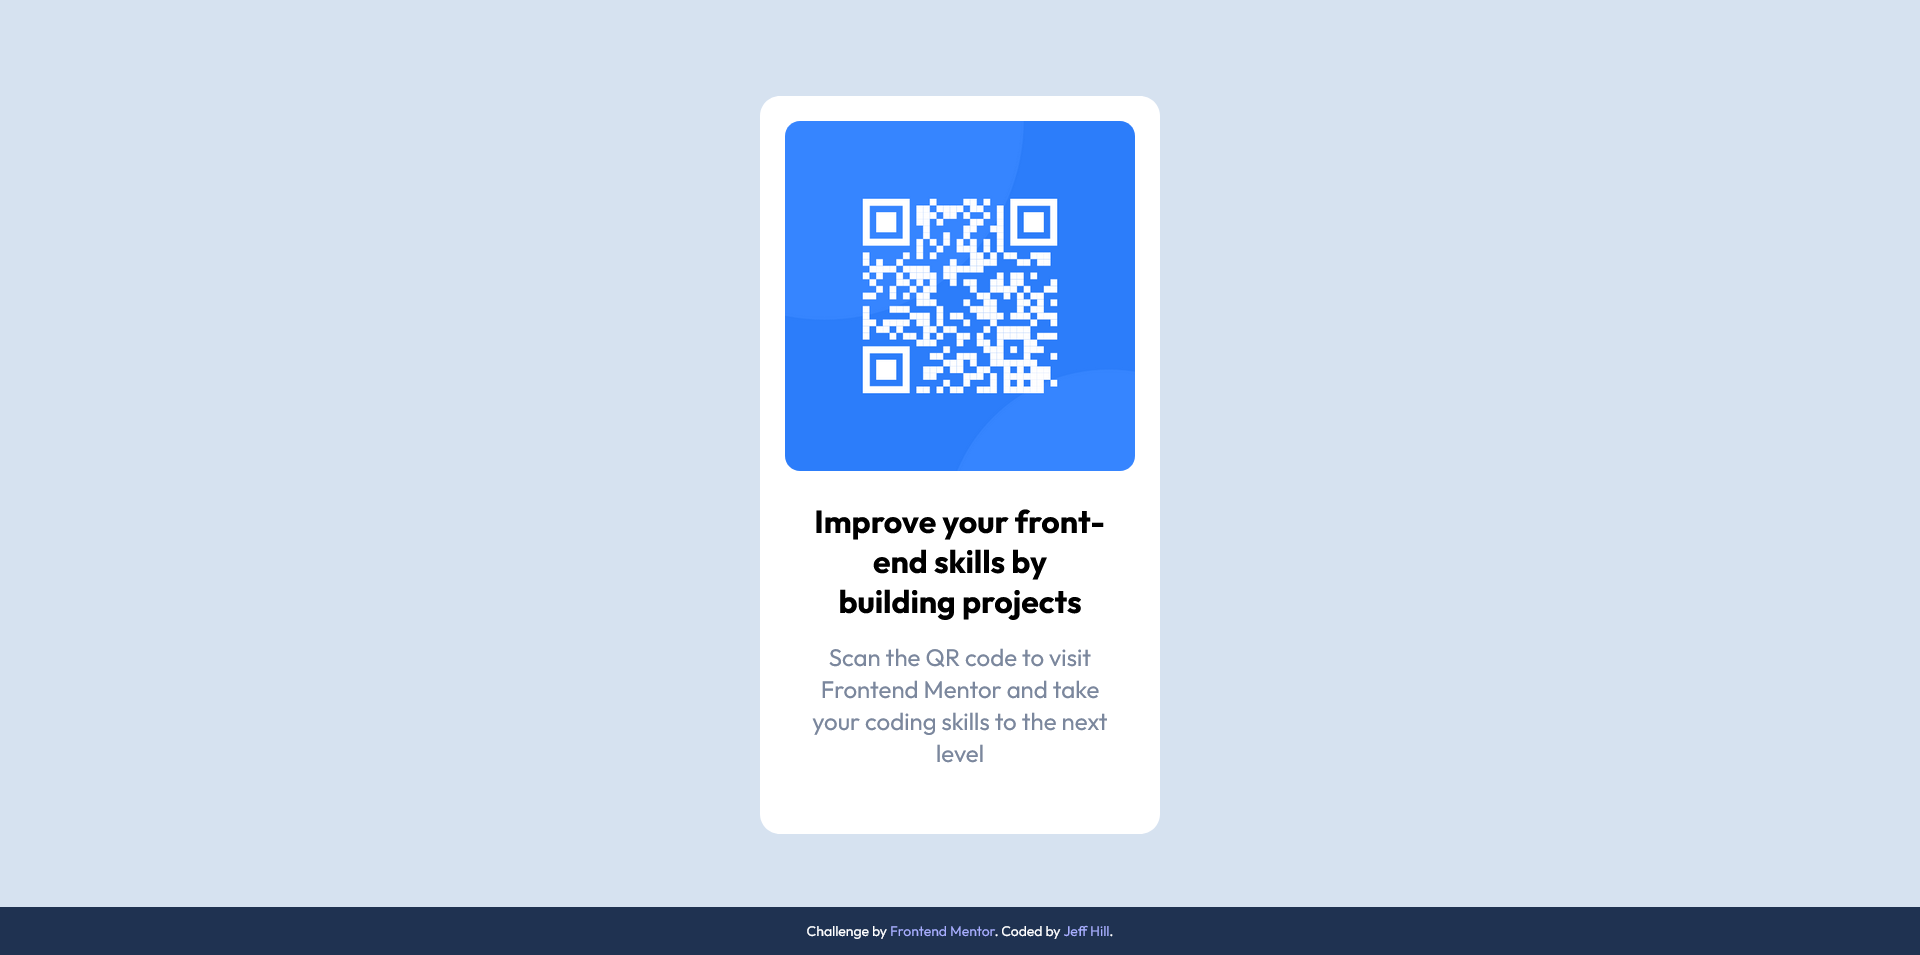
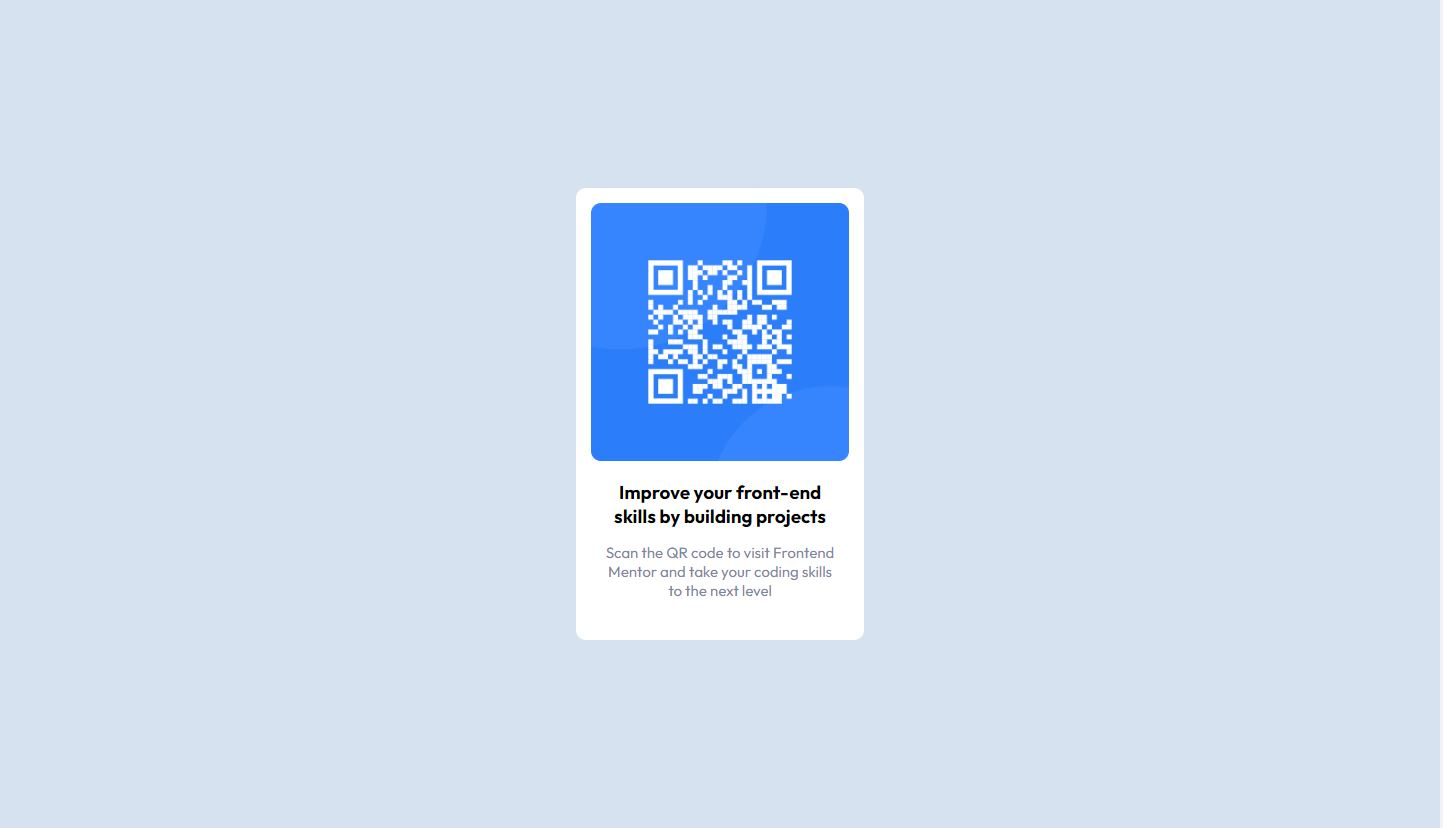
max-width

Changed region(s): [[0.3742, 0.0906, 0.6237, 0.8756], [0.0, 0.0, 1.0, 1.0]]

diff --git a/style.css b/style.css
@@ -8,49 +8,53 @@ body {
     font-family: 'Outfit', sans-serif;
     text-align: center;
     background-color: hsl(212, 45%, 89%);
+    height: 100vh;
+    display: flex;
+    flex-direction: row;
+    flex-wrap: nowrap;
+    justify-content: center;
+    align-items: center;
 }
 
 .flex {
     display: flex;
-    flex-direction: column;
+    flex-direction: row;
     flex-wrap: nowrap;
     justify-content: center;
     align-items: center;
 }
 
 .main {
-    width: 400px;
+    max-width: 20%;
+    max-height: 500px;
     margin: auto;
-    margin-top: 5%;
     background-color:  hsl(0, 0%, 100%);
     padding: 15px;
-    border-radius: 20px;
-    position: relative;
+    border-radius: 10px;
 }
 
 .img {
-    width: 100%;
+    max-width: 100%;
+    max-height: 500px;
     margin: auto;
-    border-radius: 20px;
-    padding: 5px;
+    border-radius: 10px;
 }
 
 .header {
-    width: 90%;
+    max-width: 90%;
     margin: auto;
-    padding: 20px;
+    padding-top: 15px;
     font-weight: 700;
-    line-height: 2.5rem;
+    line-height: 1.5rem;
 }
 
 .body-text {
-    width: 80%;
+    max-width: 90%;
     margin: auto;
-    padding-bottom: 50px;
-    font-size: 24px;
+    padding: 15px 0 25px 0;
+    font-size: 15px;
     font-weight: 400;
     color: hsl(220, 15%, 55%);
-    line-height: 2rem;
 }
 
 .attribution { 
@@ -72,40 +76,56 @@ footer {
     background-color: hsl(218, 44%, 22%);
 }
 
-@media screen and (max-width: 768px) {
+@media screen and (min-width: 1600px){
     .main {
-        width: 50%;
+        max-width: 25%;
+        max-height: 80vh;
         margin: auto;
-        margin-top: 20%;
-        padding-bottom: 15px;
+        background-color:  hsl(0, 0%, 100%);
+        border-radius: 20px;
     }
 
-    /* footer {
-        display: none;
-    } */
+    .img {
+        max-width: 97.25%;
+        margin: auto;
+        margin-top: 15px;
+        border-radius: 20px;
+    } 
+
+    .header {
+        max-width: 85%;
+        margin: auto;
+        margin-top: 25px;
+        font-size: 32px;
+        font-weight: 700;
+        line-height: 3rem;
+    }
+
+    .body-text {
+        max-width: 85%;
+        margin: auto;
+        padding: 20px 0 40px 0;
+        font-size: 24px;
+        font-weight: 400;
+    }
+    
+}
+
+@media screen and (max-width: 768px) {
+    .main {
+        max-width: 40%;
+        margin: auto;
+        
+    }
 }
 
 @media screen and (max-width: 376px) {
     .main {
-        width: 80%;
+        max-width: 90%;
         margin: auto;
-        margin-top: 8%;
     }
 
     .header{
-        width: 100%;
-        font-size: 10px;
-        line-height: 1.8rem;
-    }
-
-    .text {
-        width: 80%;
-        font-size: 15px;
-        line-height: 1.8rem;
-        padding-bottom: 25px;
-    }
-
-    footer {
-        display: none;
+        letter-spacing: 2px;
     }
 }

diff --git a/index.html b/index.html
@@ -11,20 +11,21 @@
   <title>Frontend Mentor | QR code component</title>
 </head>
 <body>
-  <main class="main flex">
-    <div class="img flex">
-      <img src="./images/image-qr-code.png" alt="" class="img">
+  <main class="main">
+    <div class="img">
+      <img src="./images/image-qr-code.png" alt="Scan the QR code to visit Frontend Mentor" class="img">
     </div>
-    <div class="header flex">
-      <h1>Improve your front-end skills by building projects</h1>
+    <div class="header">
+      <h3>Improve your front-end skills by building projects</h3>
     </div>
-    <div class="body-text flex">
+    <div class="body-text">
       <p>Scan the QR code to visit Frontend Mentor and take your coding skills to the next level</p>
     </div>
-  </main>
-  <footer class="attribution">
+ 
+  <!-- <footer class="attribution">
     Challenge by <a href="https://www.frontendmentor.io?ref=challenge" target="_blank">Frontend Mentor</a>. 
-    Coded by <a href="https://webdevhill.com/" target="_blank">Jeff Hill</a>.
+    Coded by <a href="https://webdevhill.com/" target="_blank">Jeff Hill</a>. -->
   </footer>
+  </main>
 </body>
 </html>

diff --git a/README.md b/README.md
@@ -14,10 +14,11 @@ This is a solution to the [QR code component challenge on Frontend Mentor](https
     - [What I learned](#what-i-learned)
     - [Continued development](#continued-development)
   - [Author](#author)
+  - [Acknowledgments](#acknowledgments)
 
 
 ## Overview
-newbie Front End Mentor HTML/CSS challenge involving basic styling and positioning
+newbie Front End Mentor HTML/CSS challenge involving basic styling, positioning, responsiveness
 
 ### Screenshot
 
@@ -26,8 +27,7 @@ newbie Front End Mentor HTML/CSS challenge involving basic styling and positioni
 
 ### Links
 
-- Solution URL: [Add solution URL here](https://your-solution-url.com)
-- Live Site URL: [Add live site URL here](https://your-live-site-url.com)
+- Solution URL: (https://qr-code-challenge-jdhill.netlify.app/)
 
 ## My process
 
@@ -36,21 +36,22 @@ newbie Front End Mentor HTML/CSS challenge involving basic styling and positioni
 - CSS custom properties
 - Flexbox
 - Mobile-first workflow
+- media-queries
 
 ### What I learned
 
-I had more difficulty positioning thess items with flexbox and media queries than I expected. Viewing it with Chrome dev tools and manually adjusting the width to see break points is entirely different than using the dev tool's "Device Mode".The top margin and proportions are what was giving me problems. 
+ Positioning and proportioning elements in CSS from a .jpeg can be a bit tricky. A fellow member on Front-end Mentor pointed out that I was using width instead of max-width. That was killing my responsiveness in flexbox. Ty @vcarames. The responsiveness seems decent Hopefully my proportions are closer this time.
 
 ### Continued development
 
-revisit flexbox and mobile first RWD, the Device Mode in Chrome dev tools is so different then manually inspecting breakpoints
-
+revisit flexbox and mobile first RWD, CSS grid
 ## Author
 
-- Website - [Add your name here](https://www.your-site.com)
-- Frontend Mentor - [@yourusername](https://www.frontendmentor.io/profile/yourusername)
-- Twitter - [@yourusername](https://www.twitter.com/yourusername)
+- Website - [Jeffrey Hill](https://webdevhill.com/)
+- Frontend Mentor - [Jeffrey Hill](https://www.frontendmentor.io/profile/webdevhill)
 
+## Acknowledgments
+- @vcarames - fellow user on Front end Mentor - Thank you!
 
 
 
